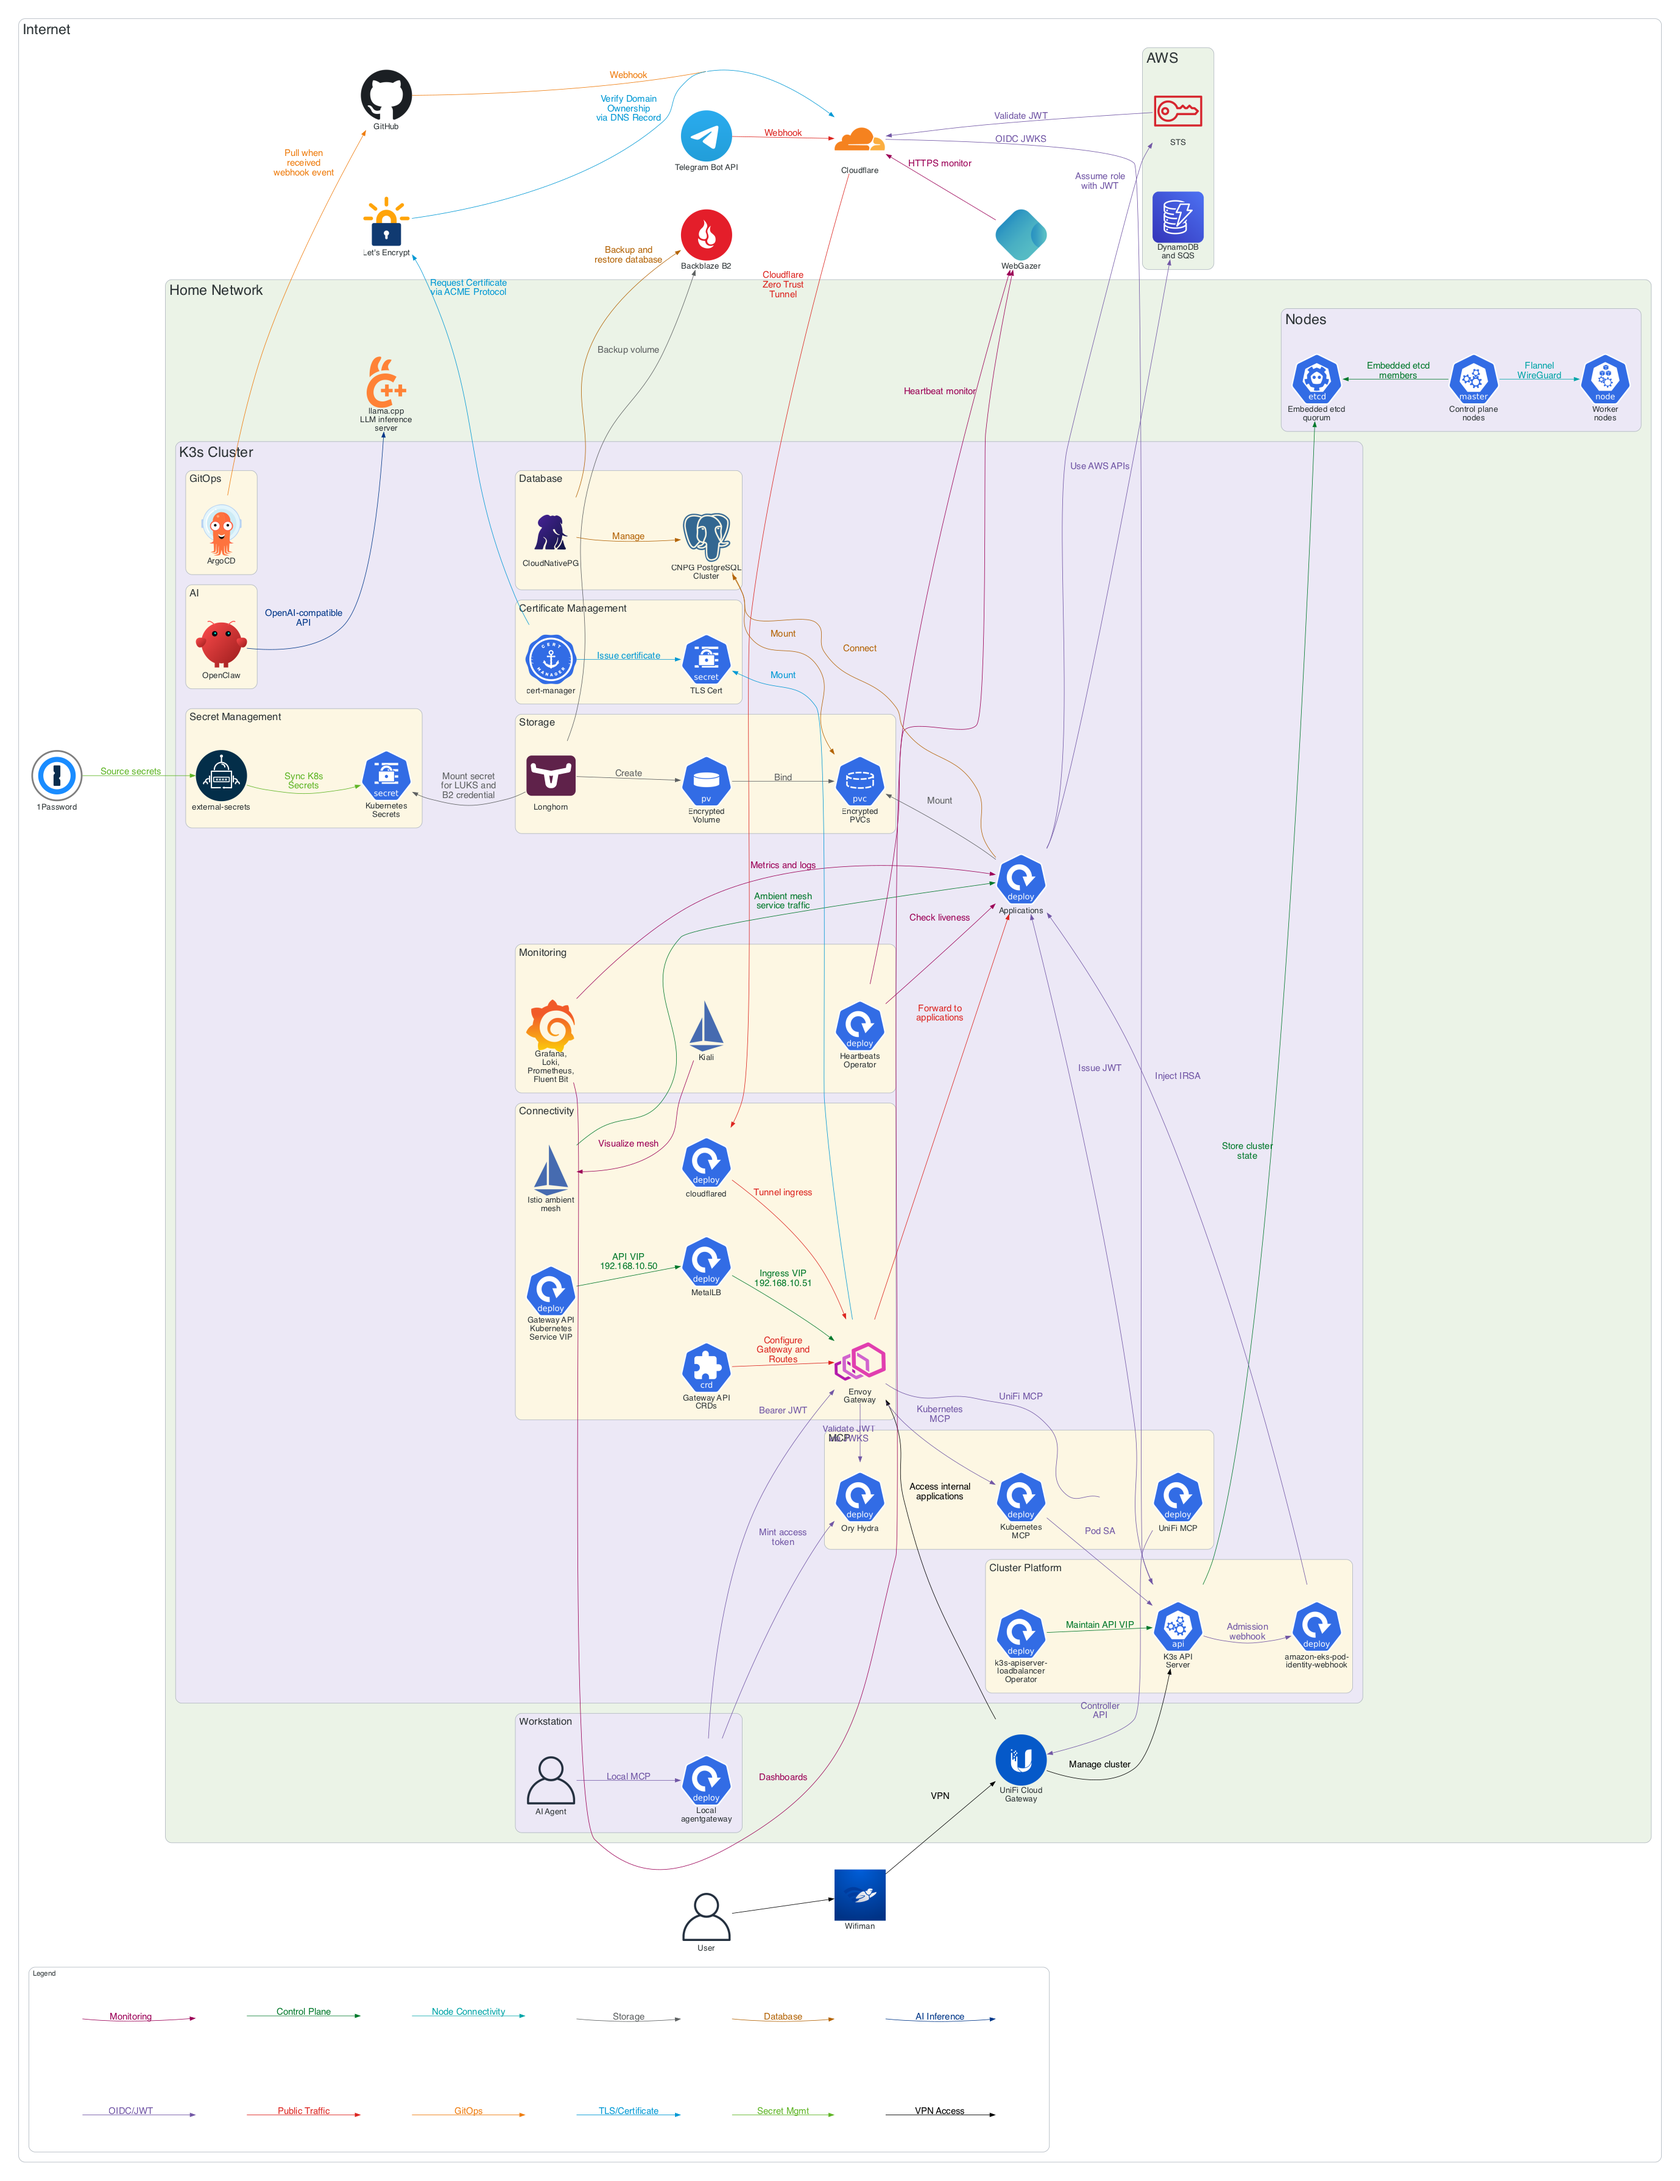
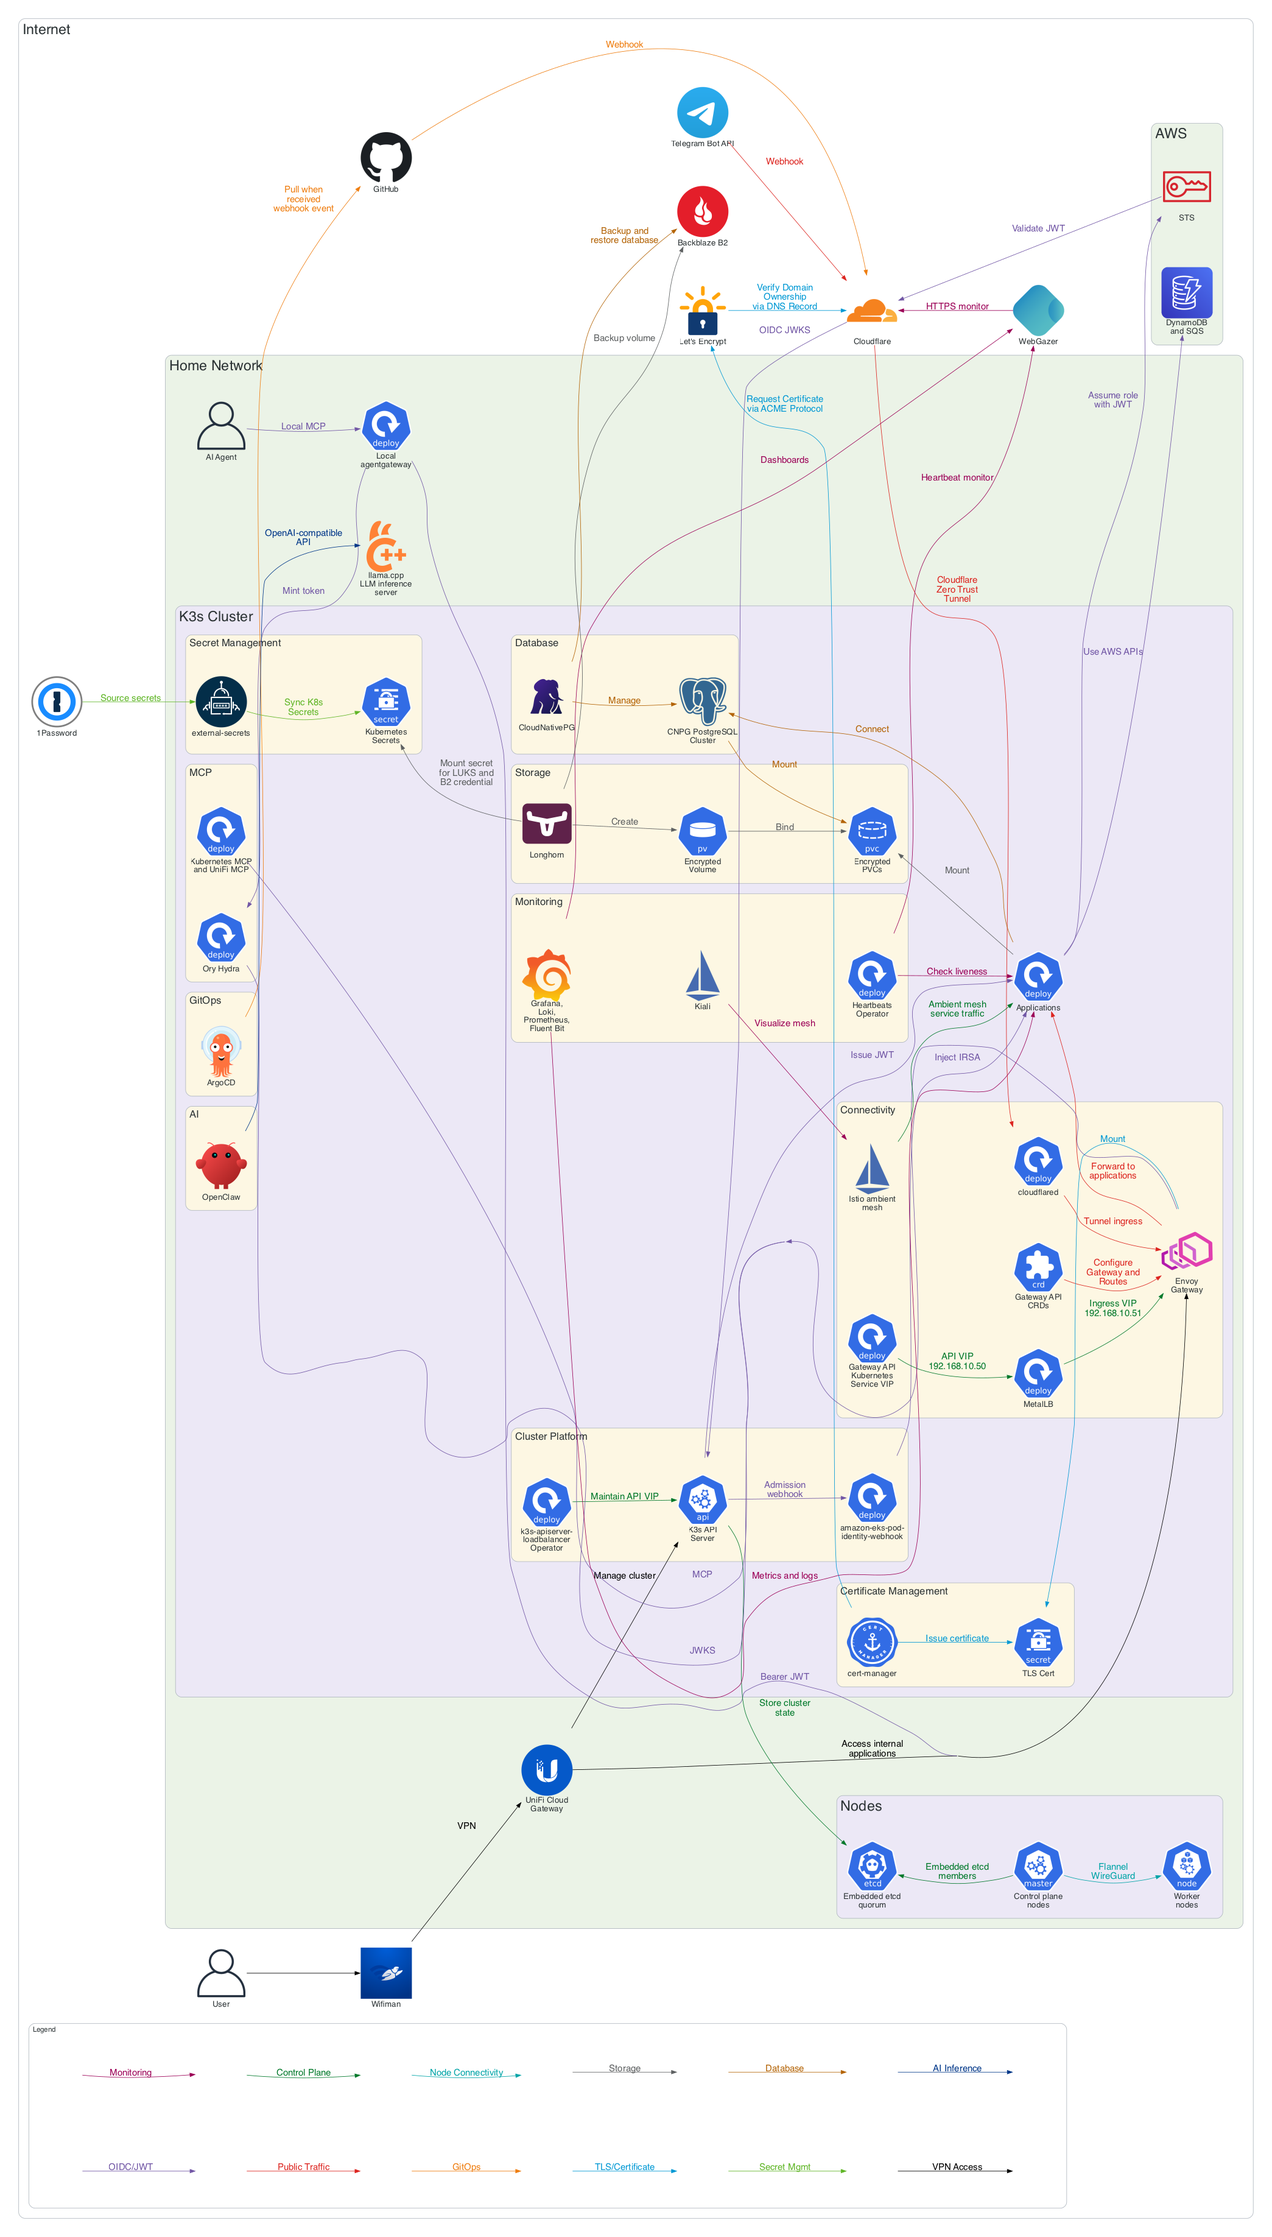
docs: keep architecture diagram width compact with MCP

diff --git a/diagrams/otaru-architecture.py b/diagrams/otaru-architecture.py
@@ -181,13 +181,8 @@ with Diagram(
         # Home Network
         with Cluster("Home Network", graph_attr=cluster_attr):
             unifi_gateway = icon_node("UniFi Cloud\nGateway", "unifi")
-            with Cluster(
-                "Workstation",
-                graph_attr={**cluster_attr, "fontsize": "20"},
-            ):
-                ai_agent = User("AI Agent")
-                agentgateway = Deployment("Local\nagentgateway")
-
+            ai_agent = User("AI Agent")
+            agentgateway = Deployment("Local\nagentgateway")
             with Cluster("K3s Cluster", graph_attr=cluster_attr):
                 with Cluster(
                     "Cluster Platform",
@@ -218,15 +213,6 @@ with Diagram(
                 applications = Deployment("Applications")
 
                 with Cluster(
-                    "MCP",
-                    graph_attr={**cluster_attr, "fontsize": "20"},
-                ):
-                    hydra = Deployment("Ory Hydra")
-                    k8s_mcp = Deployment("Kubernetes\nMCP")
-                    unifi_mcp = Deployment("UniFi MCP")
-                    align_horizontally(hydra, k8s_mcp, unifi_mcp)
-
-                with Cluster(
                     "GitOps",
                     graph_attr={**cluster_attr, "fontsize": "20"},
                 ):
@@ -237,6 +223,13 @@ with Diagram(
                     graph_attr={**cluster_attr, "fontsize": "20"},
                 ):
                     openclaw = icon_node("OpenClaw", "openclaw")
+
+                with Cluster(
+                    "MCP",
+                    graph_attr={**cluster_attr, "fontsize": "20"},
+                ):
+                    hydra = Deployment("Ory Hydra")
+                    mcp_servers = Deployment("Kubernetes MCP\nand UniFi MCP")
 
                 with Cluster(
                     "Certificate Management",
@@ -476,12 +469,22 @@ with Diagram(
     (cloudflare >> edge("OIDC JWKS", colour=COLOUR_OIDC) >> api_server)
     applications >> edge("Use AWS APIs", colour=COLOUR_OIDC) >> aws_app_services
 
-    # MCP JWT edge auth and local front door
+    # MCP JWT: workstation front door -> Hydra + Envoy -> MCP servers.
+    # constraint=false avoids pinning MCP to the right of Connectivity.
     ai_agent >> edge("Local MCP", colour=COLOUR_OIDC) >> agentgateway
-    (agentgateway >> edge("Mint access\ntoken", colour=COLOUR_OIDC) >> hydra)
-    (agentgateway >> edge("Bearer JWT", colour=COLOUR_OIDC) >> envoy_gateway)
-    (envoy_gateway >> edge("Validate JWT\nvia JWKS", colour=COLOUR_OIDC) >> hydra)
-    (envoy_gateway >> edge("Kubernetes\nMCP", colour=COLOUR_OIDC) >> k8s_mcp)
-    (envoy_gateway >> edge("UniFi MCP", colour=COLOUR_OIDC) >> unifi_mcp)
-    k8s_mcp >> edge("Pod SA", colour=COLOUR_OIDC) >> api_server
-    (unifi_mcp >> edge("Controller\nAPI", colour=COLOUR_OIDC) >> unifi_gateway)
+    (
+        agentgateway
+        >> edge("Mint token", colour=COLOUR_OIDC, constraint="false")
+        >> hydra
+    )
+    (
+        agentgateway
+        >> edge("Bearer JWT", colour=COLOUR_OIDC, constraint="false")
+        >> envoy_gateway
+    )
+    (envoy_gateway >> edge("JWKS", colour=COLOUR_OIDC, constraint="false") >> hydra)
+    (
+        envoy_gateway
+        >> edge("MCP", colour=COLOUR_OIDC, constraint="false")
+        >> mcp_servers
+    )
